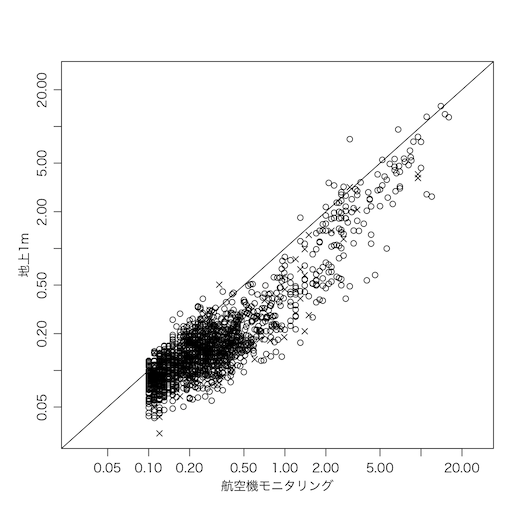
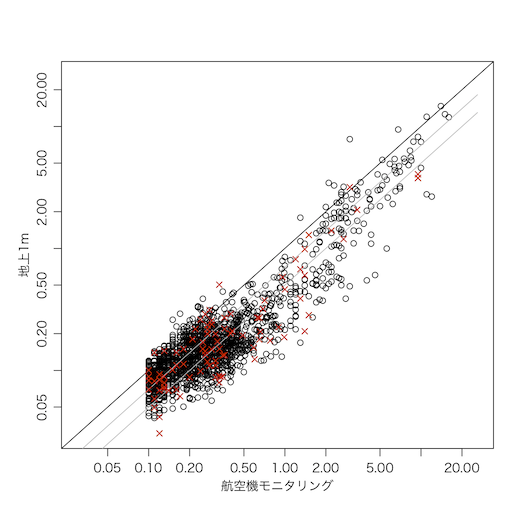
modified

diff --git a/stat/190118.html b/stat/190118.html
@@ -223,9 +223,14 @@ for (i in 1:n) {
 plot(avi, rad, log="xy", xlim=c(0.03,26), ylim=c(0.03,26), asp=1,
      pch = ifelse(is.na(mak),1,4), xlab="航空機モニタリング", ylab="地上1m")
 abline(0, 1)
+curve(0.7*x, col="gray", add=TRUE)  # 追加
+curve(0.5*x, col="gray", add=TRUE)  # 追加
+points(avi, rad, pch=4, col=ifelse(is.na(mak),"#00000000","#ff2800")) # 追加
 </pre>
 
 <figure><img src="img/190120c.png" alt="航空機モニタリングと地上1mの線量率の比較"></figure>
+
+<p>（修正：さきほどの図は「×」が見にくかったので色を変えた。航空機に比べて地上が0.7倍，0.5倍の灰色の線を書き加えた。）</p>
 
 <hr>
 
@@ -233,7 +238,7 @@ abline(0, 1)
 <p><a href="../" rel="author">奥村 晴彦</a></p>
 <p>
 <!-- hhmts start -->
-Last modified: <time>2019-01-20 16:47:09</time>
+Last modified: <time>2019-01-20 20:29:48</time>
 <!-- hhmts end -->
 </p>
 </footer>
